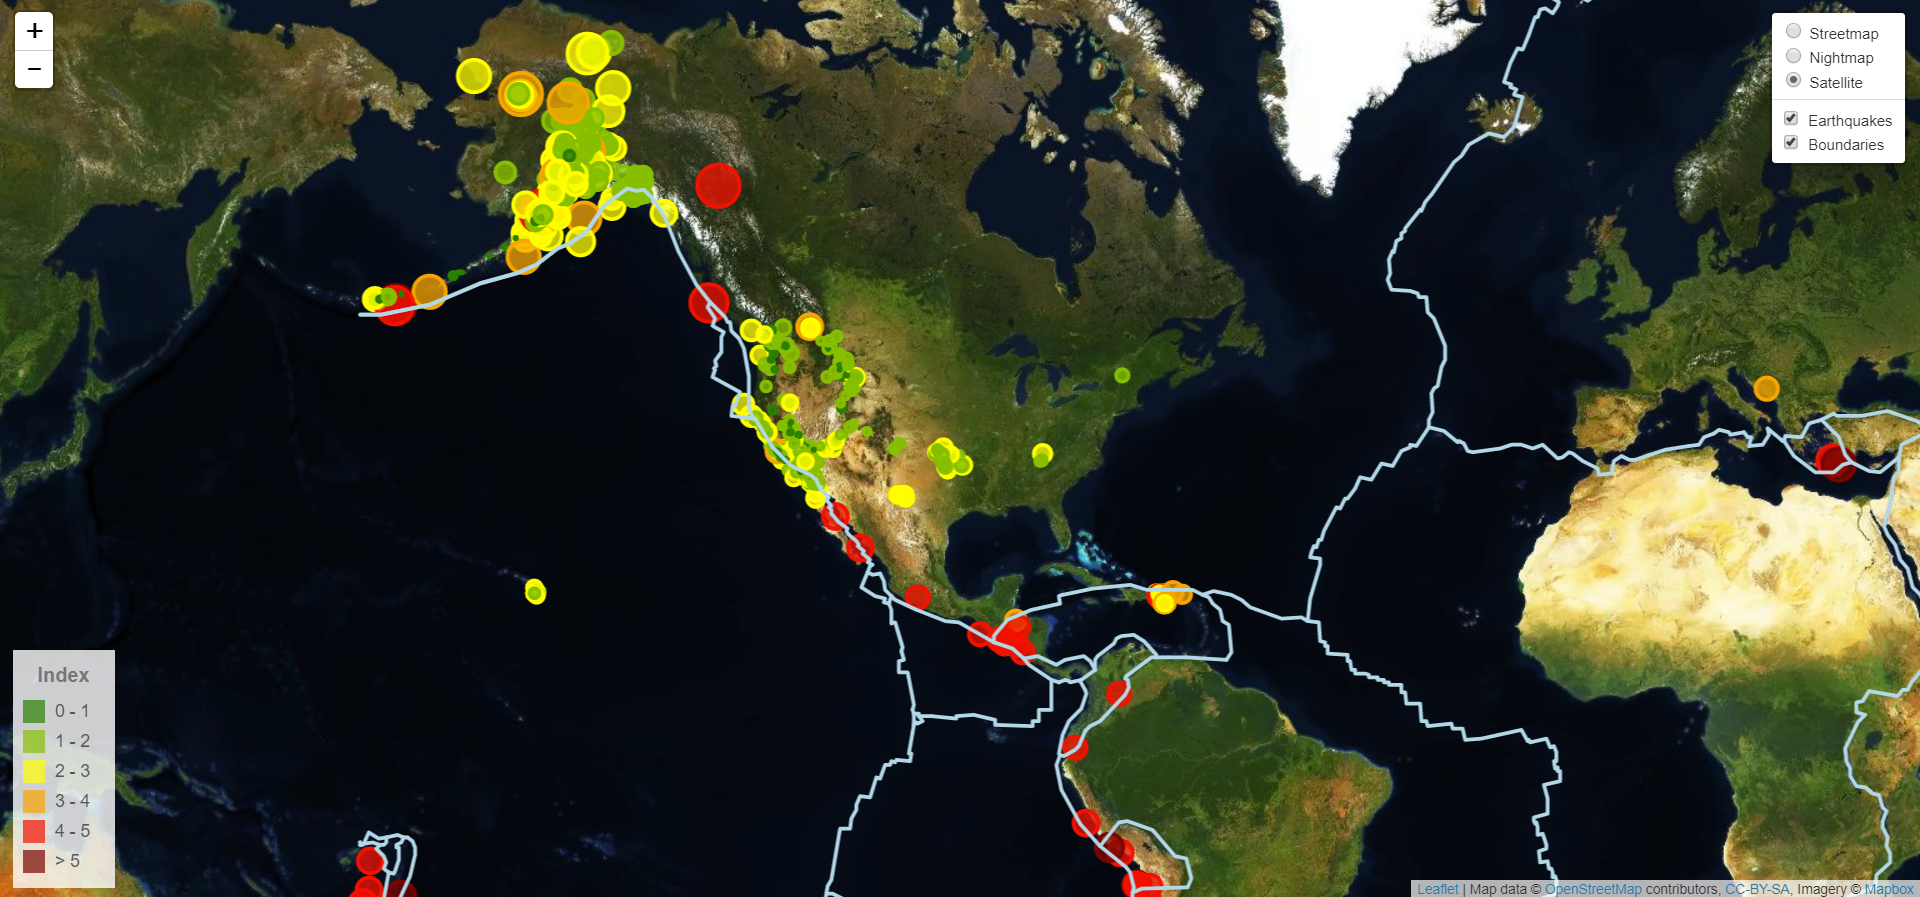
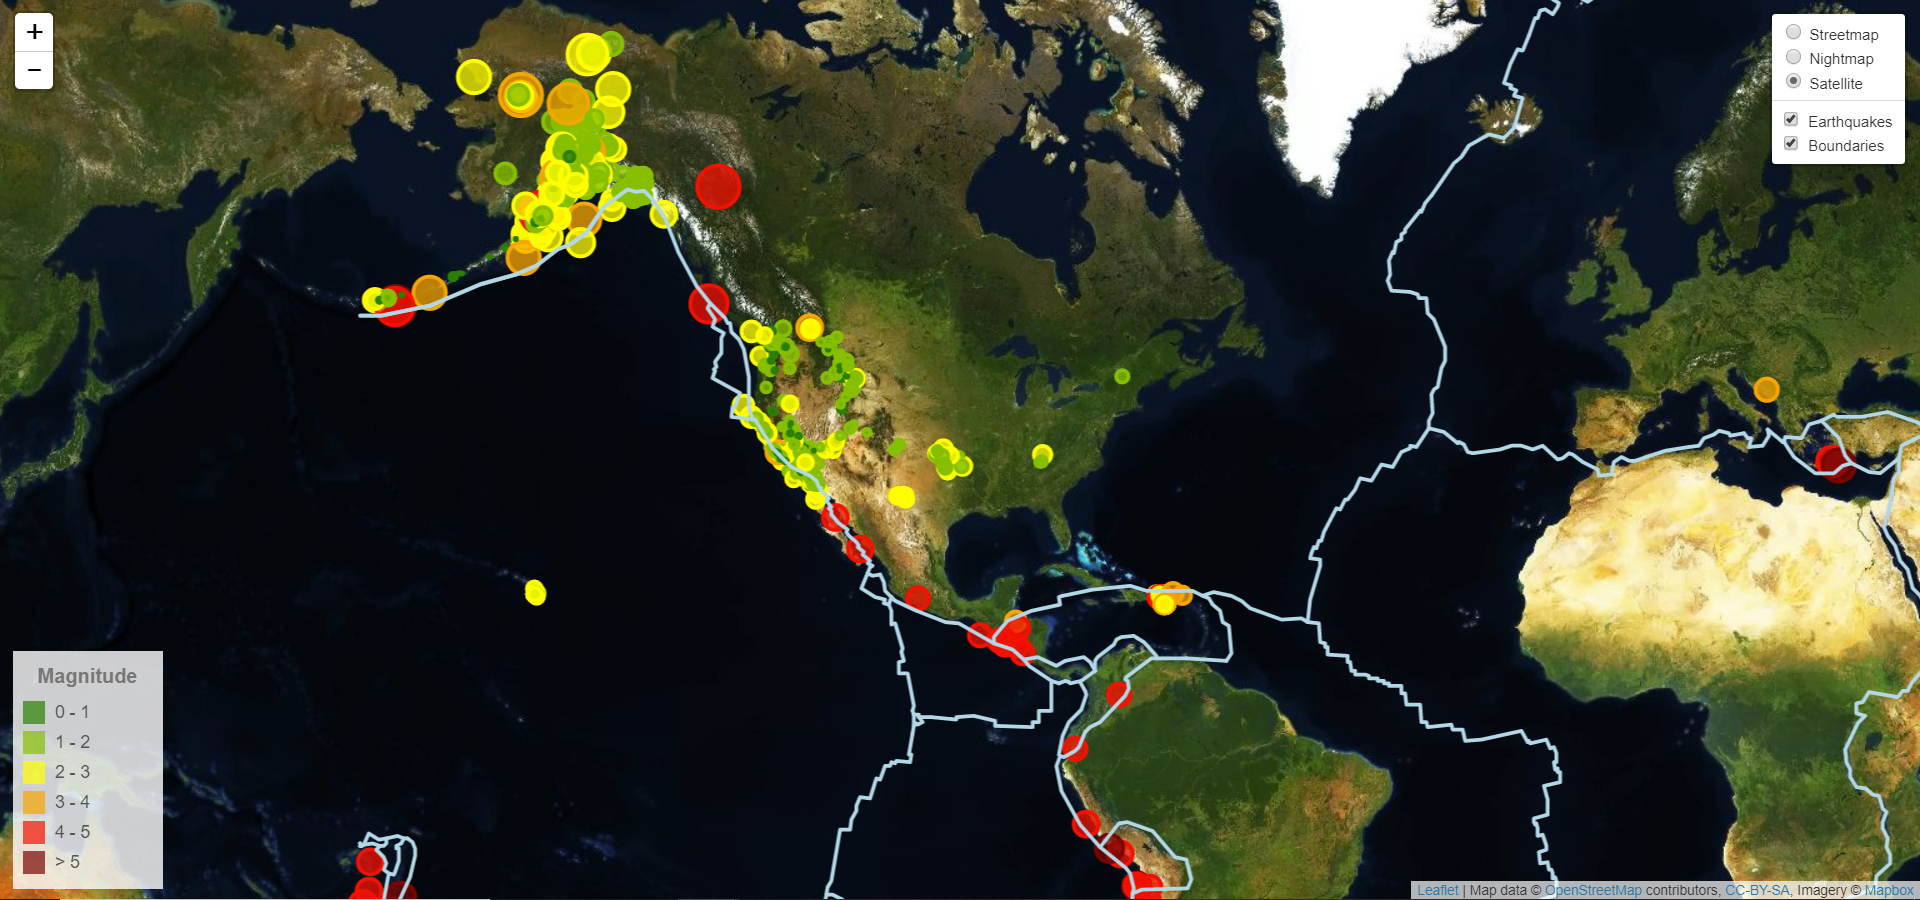
small improvements

diff --git a/Leaflet-Step-1-and-2/static/js/logic.js b/Leaflet-Step-1-and-2/static/js/logic.js
@@ -142,7 +142,7 @@ var legend = L.control({ position: "bottomleft" });
 
 legend.onAdd = function(map) {
   var div = L.DomUtil.create("div", "legend");
-  div.innerHTML += "<h4>Index</h4>";
+  div.innerHTML += "<h4>Magnitude</h4>";
   div.innerHTML += '<i style="background: #008000"></i><span>0 - 1</span><br>';
   div.innerHTML += '<i style="background: #7DC000"></i><span>1 - 2</span><br>';
   div.innerHTML += '<i style="background: #ffff00"></i><span>2 - 3</span><br>';
